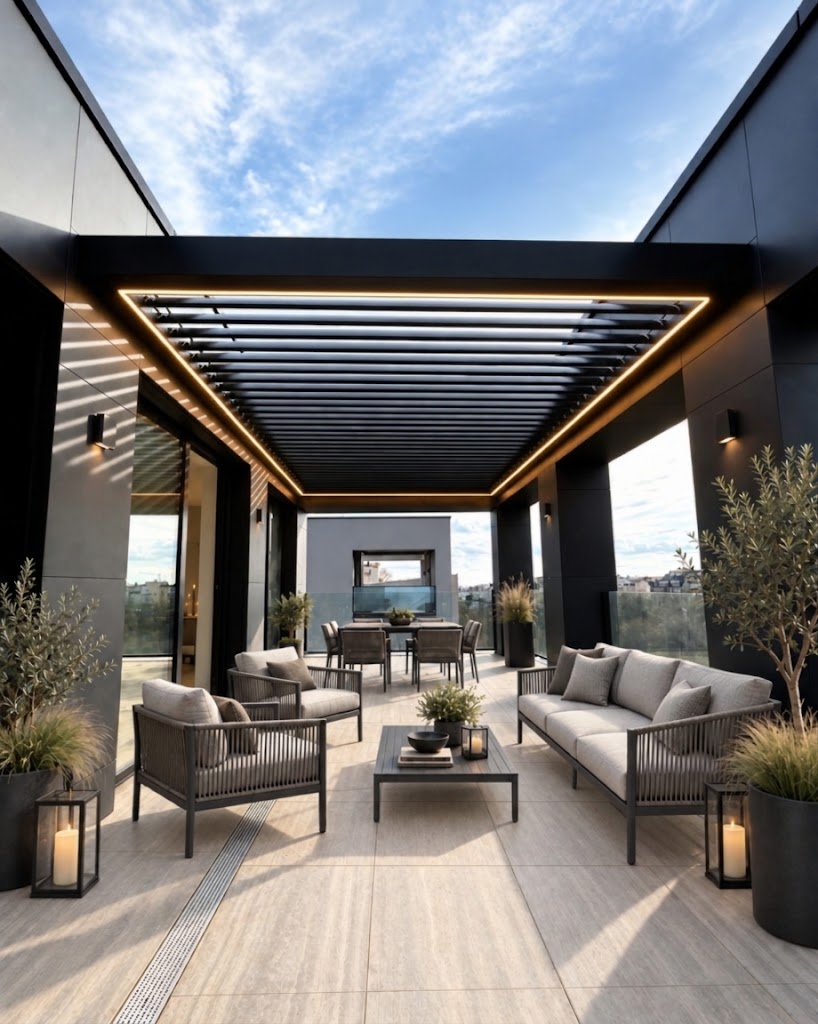
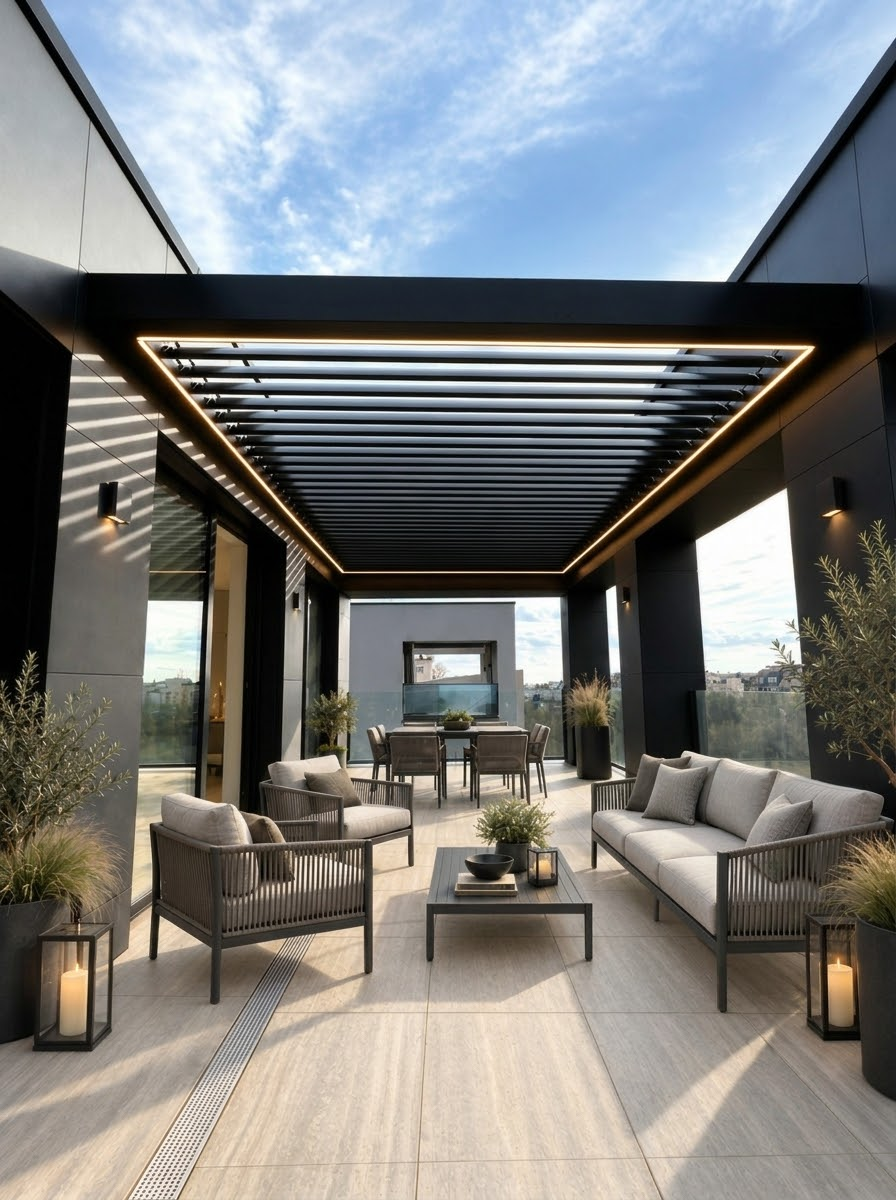
SB400R: replace hero image with new edited version (896x1200)

diff --git a/sunbreaker-400r.html b/sunbreaker-400r.html
@@ -71,7 +71,7 @@
     </div>
 
     <div class="hero-photo reveal">
-      <img src="images/sunbreaker-400-2.jpg" width="818" height="1024" fetchpriority="high" alt="Bioklimatska pergola Sunbreaker 400 na terasi uz zid objekta" style="object-position:50% 70%">
+      <img src="images/sunbreaker-400-2.jpg" width="896" height="1200" fetchpriority="high" alt="Bioklimatska pergola Sunbreaker 400 na terasi uz zid objekta" style="object-position:50% 70%">
     </div>
 
     <div class="hero-actions">
